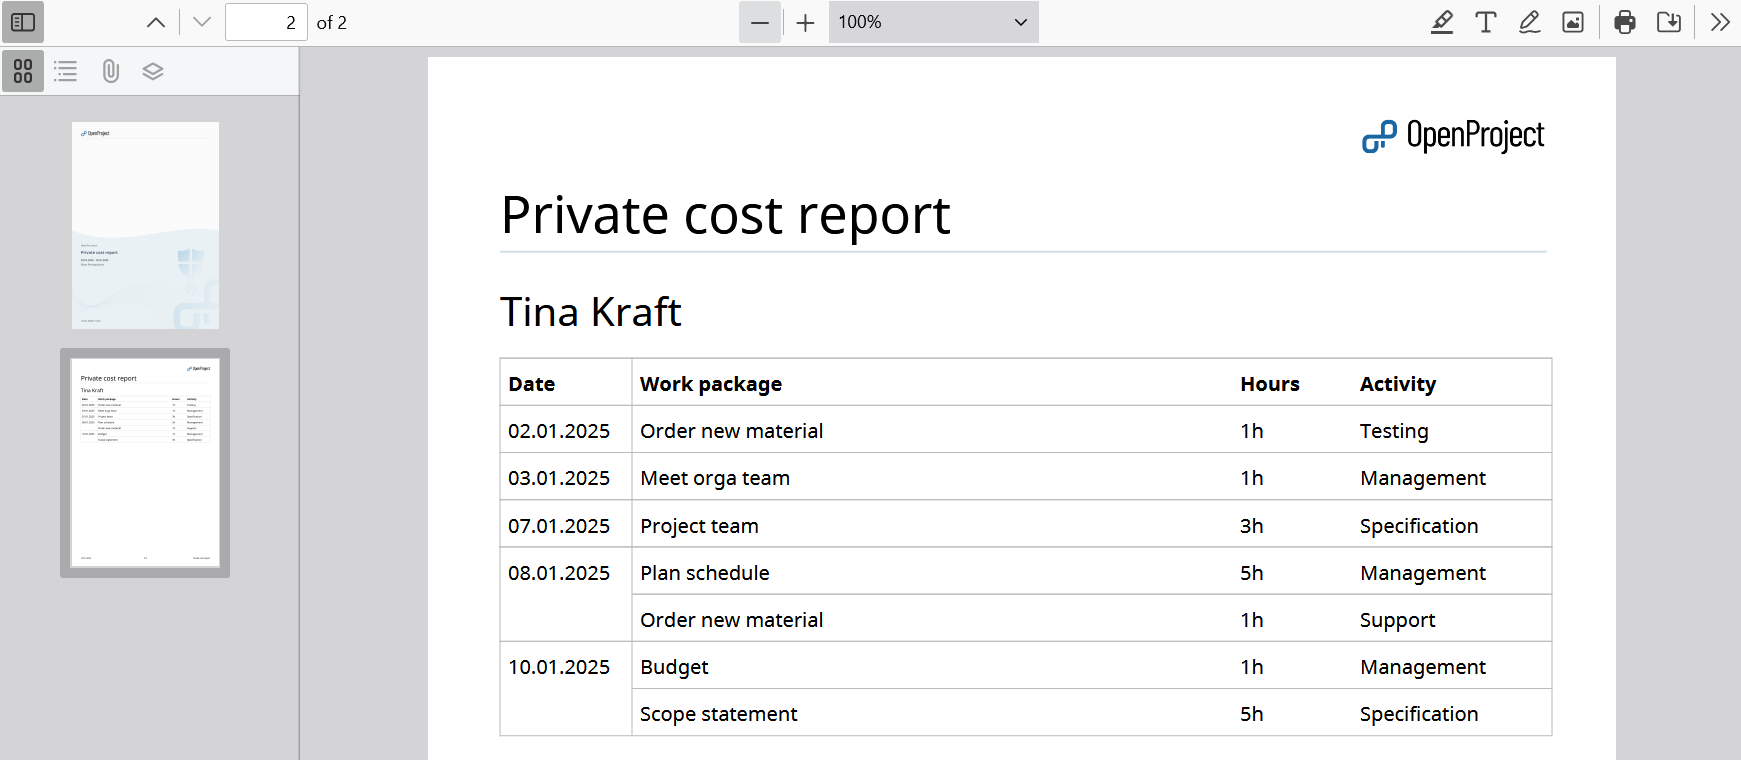
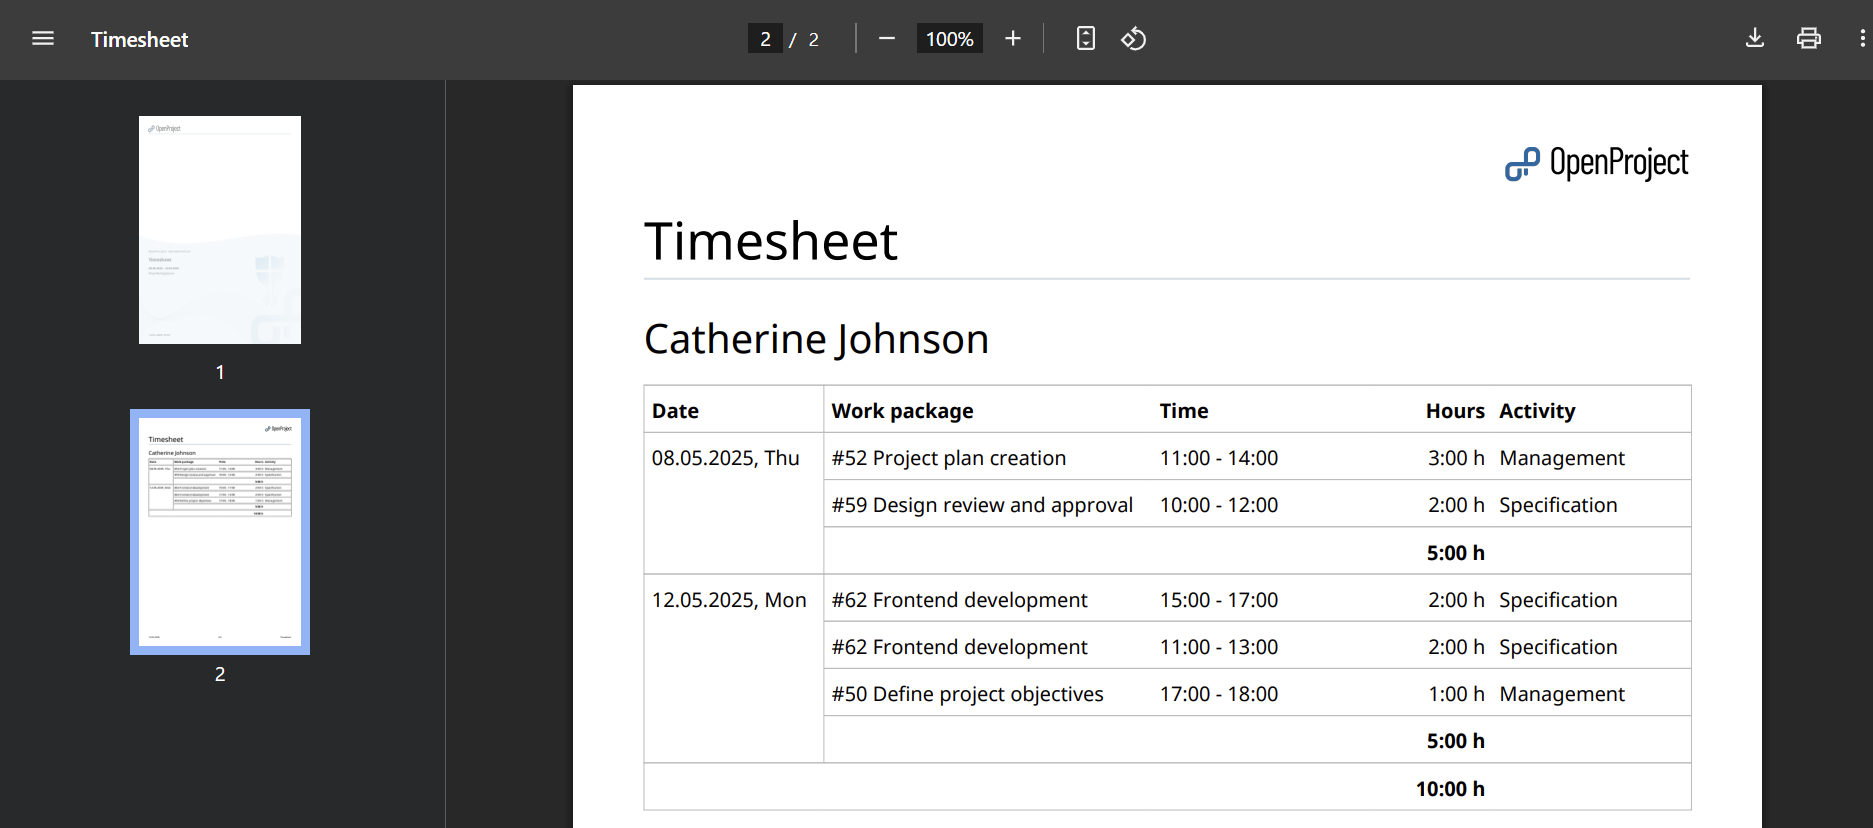
[#63799] 16.0 PDF export changes  https://community.openproject.org/work_packages/63799

diff --git a/docs/user-guide/time-and-costs/reporting/README.md b/docs/user-guide/time-and-costs/reporting/README.md
@@ -114,13 +114,15 @@ To prepare the export, first filter and set up the report according to your pref
 
 ![Settings for timesheet PDF export in OpenProject](openproject_userguide_timeandcosts_timesheet_export_settings.png)
 
-A PDF file will be generated, containing the time entries specified by the report.
+A PDF file will be generated, containing the time entries specified by the report. 
+
+In the user details section, if there are several entries on the same day, the hours are combined and shown in one row. When entries span multiple days, a total for all days is also shown. Each row lists the work package IDs (with links), and the first column shows the date and abbreviated weekday.
 
 ![Timesheet PDF export in OpenProject](openproject_userguide_timesheet_pdf_export.png)
 
 > [!TIP]
 >
-> If the exported PDF includes multiple users, an additional page after the cover page will provide an overview table displaying the total hours worked by each user, as well as a sum per user.
+> If the exported PDF includes multiple users, an additional page after the cover page will provide an overview table displaying the total hours worked by each user, as well as a sum per user. It will also include an overview of hours worked per user per day.
 > 
 
 ![Timesheet PDF export for multiple users in OpenProject](openproject_userguide_timesheet_pdf_export_multiple_users.png)
